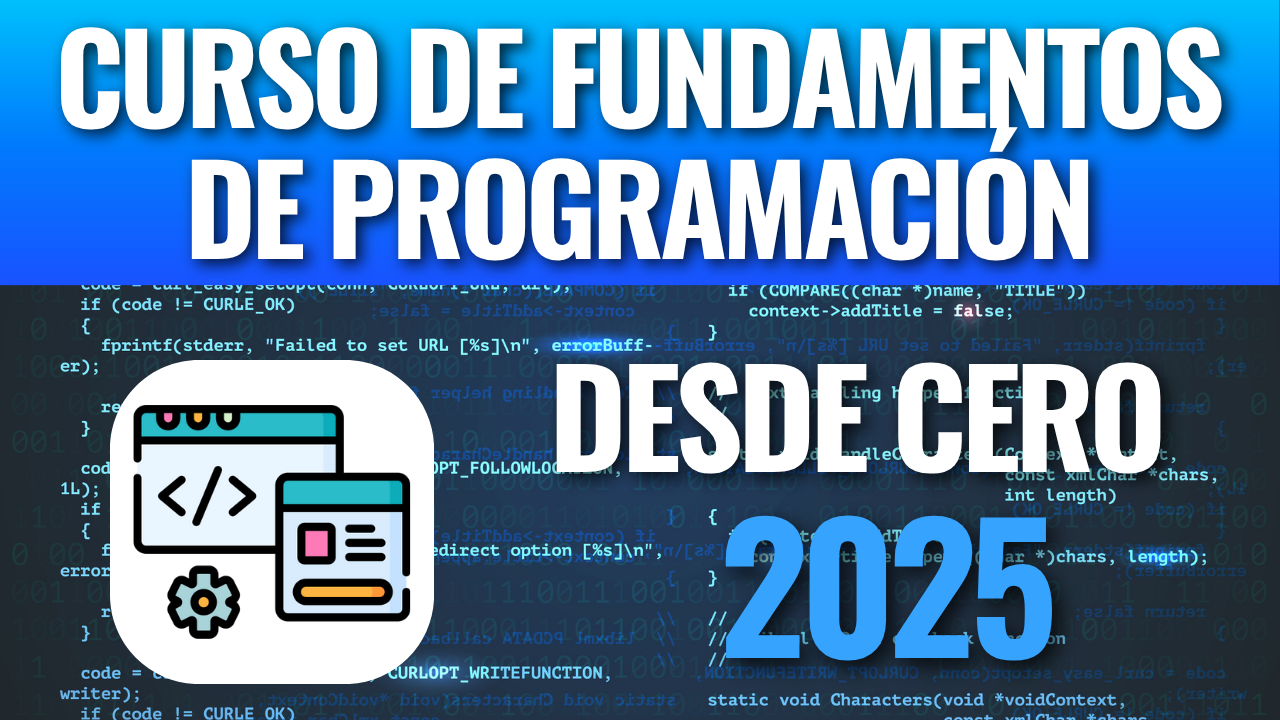
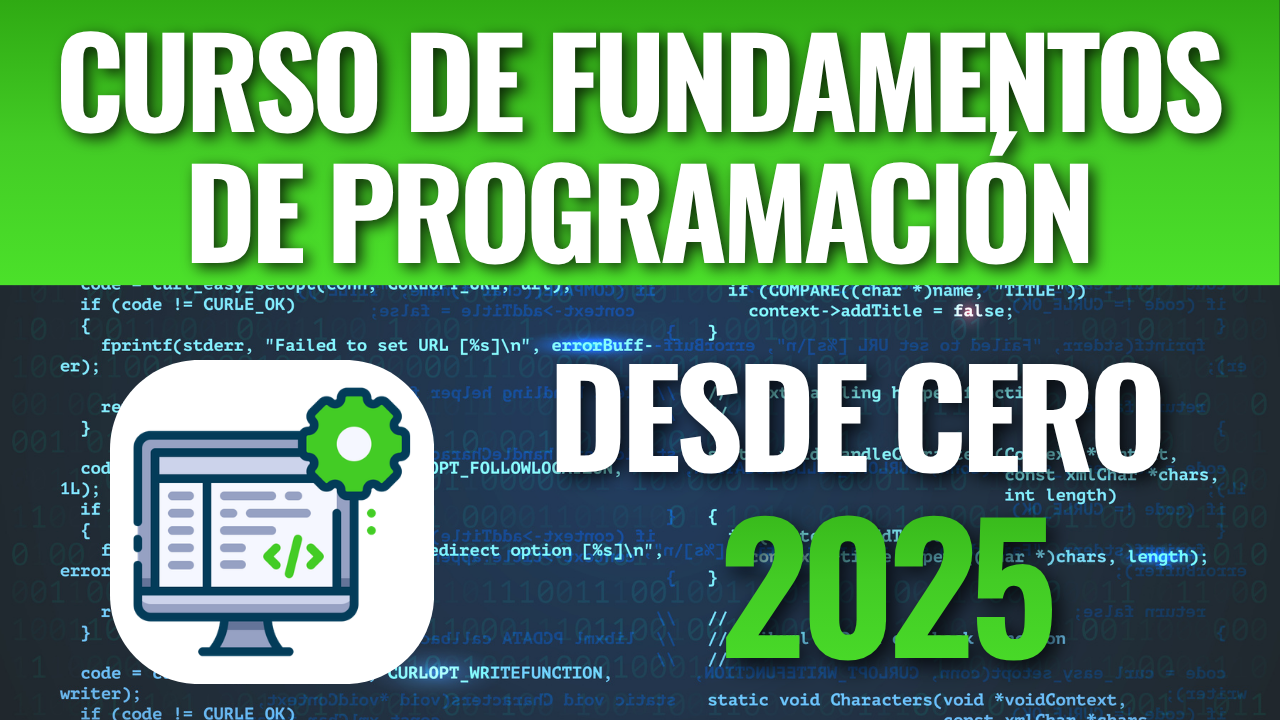
001

diff --git a/scripts/curso-funciones-update.js b/scripts/curso-funciones-update.js
@@ -2,16 +2,6 @@ function cursoFunciones() {
     return {
     cursos: [
         {
-            "nombre": "Curso de Python desde 0 para principiantes",
-            "estado": "Finalizado",
-            "descripcion": "Este curso está diseñado para quienes desean empezar desde cero en el mundo de la programación con Python. Aprenderás desde los conceptos más básicos hasta temas más avanzados.",
-            "portada": "curso-python.png",
-            "ruta": "curso-python",
-            "temario": 
-            [
-            ]
-        },
-        {
             "nombre": "Curso de fundamentos de programación",
             "estado": "Finalizado",
             "descripcion": "Bienvenido al Curso de Fundamentos de Programación desde Cero. Aprenderás los conceptos básicos que todo programador necesita dominar. No importa si nunca has escrito una línea de código.",
